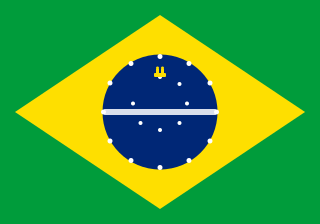
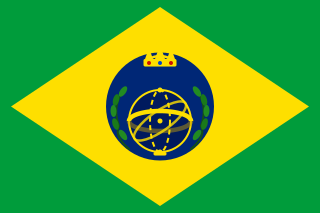
fix: correct Empire of Brazil, Qing dynasty, and New South Wales flags for 1850 era
- empire-of-brazil.png: replace incorrect starred republican design with proper
  imperial armillary sphere + crown + laurel wreath (no stars)
- qing-dynasty.png: replace barely-visible blob with recognisable teal/jade-green
  dragon on yellow background matching the actual Yellow Dragon Banner colours
- historicalEras.ts: add New South Wales → United Kingdom mapping for ad1815 and
  ad1850 eras so the Union Jack displays instead of "No flag image"

https://claude.ai/code/session_01RfT4hL8pb4ZkfdmDgv7DEB

diff --git a/src/lib/historicalEras.ts b/src/lib/historicalEras.ts
@@ -1124,6 +1124,8 @@ const ERA_OVERRIDES: ReadonlyMap<Era["id"], ReadonlyMap<string, PolityInfo>> = n
     ["Hong Kong", { continent: "East Asia", note: "In 1815 Hong Kong Island was Qing Chinese territory — Britain didn't acquire it until the Treaty of Nanking (1842).", noFlag: true, population: 5_000 }],
     // Philippines in 1815 = Spanish colony
     ["Philippines", { flag: "historical-flags/spain-1785.png", continent: "Southeast Asia", note: "Spanish colonial Philippines — the red-yellow-red Crown of Castile flag flew until the 1898 revolution.", population: 2_500_000 }],
+    // New South Wales in 1815 = British Crown Colony (est. 1788).
+    ["New South Wales", { modernName: "United Kingdom", continent: "Oceania", note: "British Crown Colony of New South Wales — established as a penal colony in 1788. The Union Jack flew over the colony until Australian federation in 1901.", population: 30_000 }],
   ])],
 
   // === 1850 (Industrial age) overrides ======================================
@@ -1190,6 +1192,8 @@ const ERA_OVERRIDES: ReadonlyMap<Era["id"], ReadonlyMap<string, PolityInfo>> = n
     ["Philippines", { flag: "historical-flags/spain-1785.png", continent: "Southeast Asia", note: "Spanish colonial Philippines — the red-yellow-red Crown of Castile flag flew until the 1898 revolution.", population: 4_000_000 }],
     // Manchu Empire in 1850 = Qing dynasty; use the yellow dragon banner.
     ["Manchu Empire", { flag: "historical-flags/qing-dynasty.png", continent: "East Asia", note: "Qing dynasty China — the yellow dragon banner was the national flag. In 1850 the Taiping Rebellion was beginning to tear the empire apart.", population: 430_000_000 }],
+    // New South Wales in 1850 = British Crown Colony.
+    ["New South Wales", { modernName: "United Kingdom", continent: "Oceania", note: "British Crown Colony of New South Wales — the Union Jack flew over the colony throughout the 19th century until Australian federation in 1901.", population: 265_000 }],
   ])],
 
   // === 1914 (eve of WWI) overrides ==========================================
